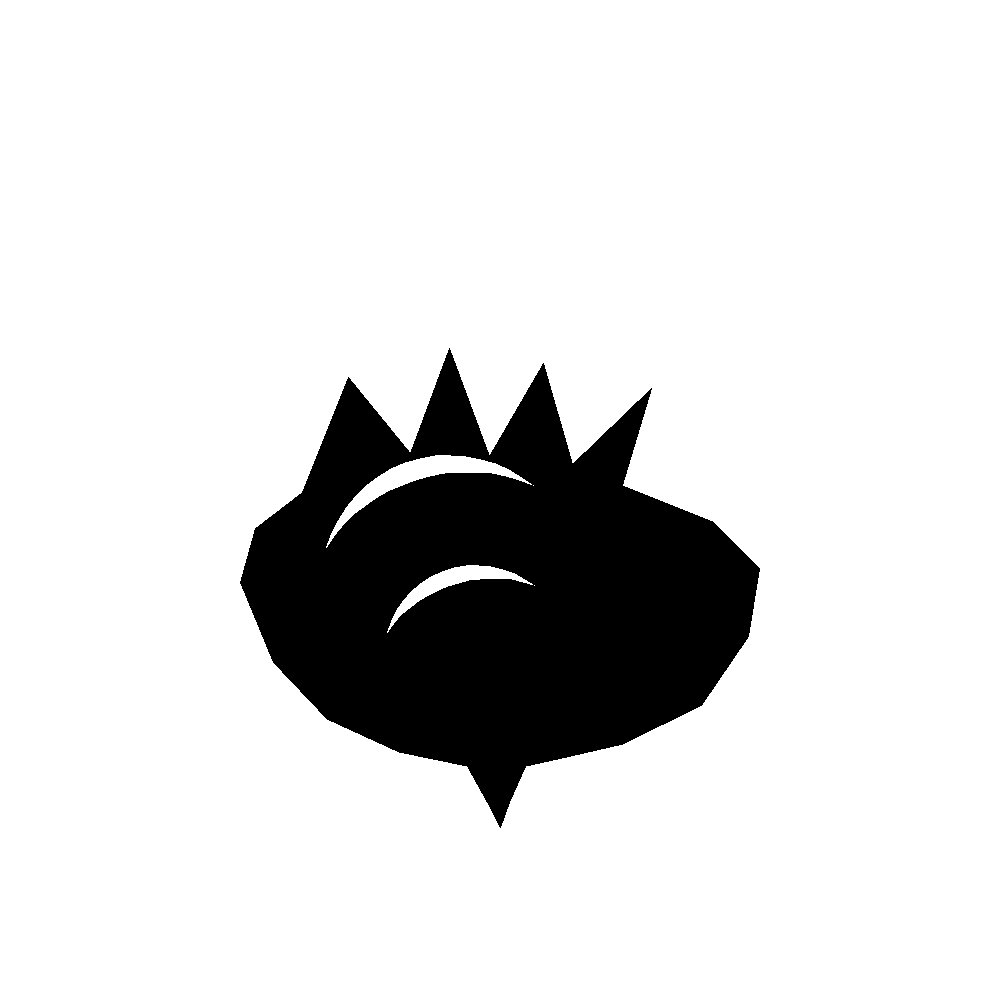
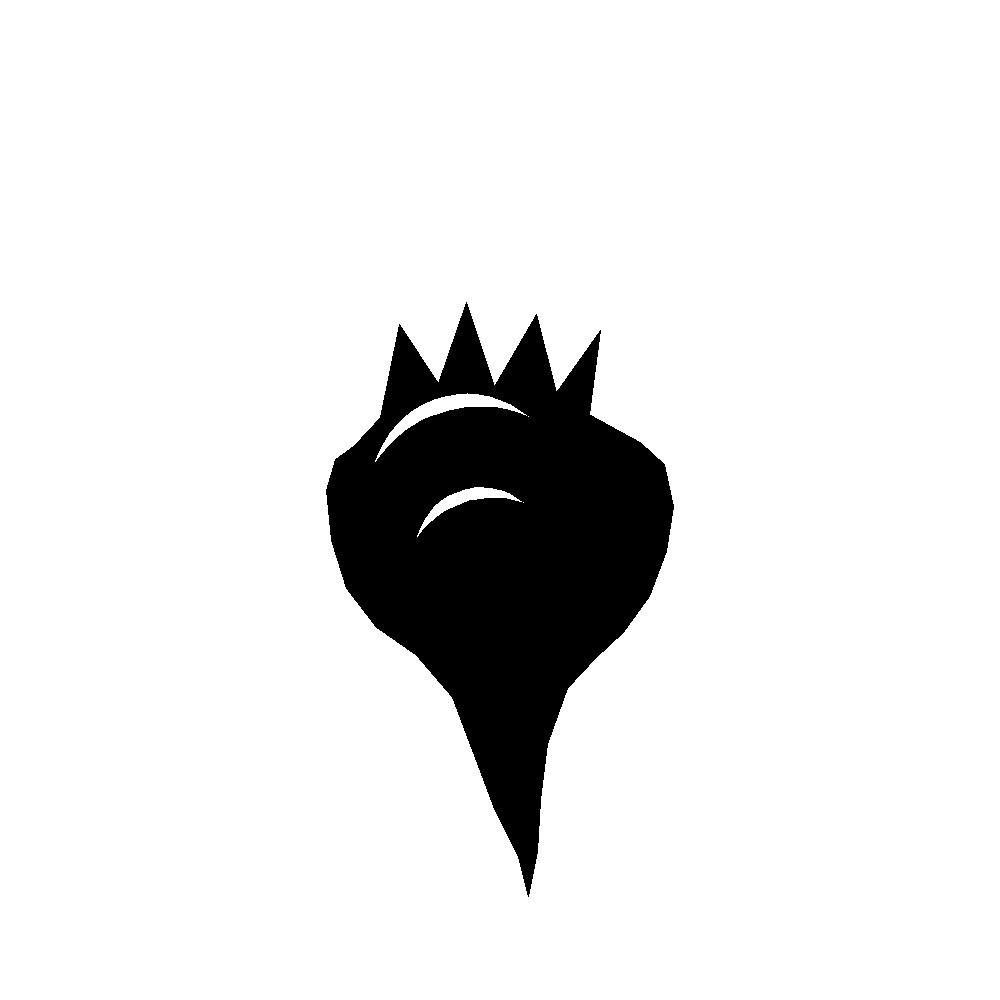
Turnip: rotund bulb, pointed curved tap-root, 1.34x taller than wide, small shrubby top (Codex PG7e, reviewed; 3-way merged onto the carved page 93c79e18); harness 46/46

Changed region(s): [[0.217, 0.31, 0.775, 0.899]]

diff --git a/Tools/ShadowGobo/Puppets/props.py b/Tools/ShadowGobo/Puppets/props.py
@@ -55,7 +55,10 @@ LOOK = {
              "page_font": None, "page_text_width": 0.85, "page_text_bold": 0.003,
              "page_text_angle_deg": -18.0, "page_text_diagonal_fill": 0.85,
              "page_text_seed": 1709, "page_wedge_down": 0.066, "page_wedge_thin": 0.038},
-    "turnip": {"attach": "boy_near_hand", "size_boy_height": 0.12, "bite_seconds": 0.24},
+    "turnip": {"attach": "boy_near_hand", "size_boy_height": 0.12, "bite_seconds": 0.24,
+               # Gary 9 Oct: rotund upper bulb, but longer than wide with a fine, curved tap-root.
+               "bulb_width": 1.24, "total_height_ratio": 1.34,
+               "tail_curve": 0.10, "leaf_height": 0.42},
     "pearl": {"attach_from": "puss_mouth", "attach_to": "boy_near_hand", "size_boy_height": 0.10},
     "crown": {"attach": "boy_head_top", "size_boy_height": 0.18, "restitution": 0.25},
     "boots": {"attach": "world", "size_vs_puss_height": 0.31, "restitution": 0.34, "spacing_widths": 1.22},
@@ -106,25 +109,35 @@ def _tapered_crescent(cx, cy, radius, width, start_deg=205, end_deg=305, n=22):
 
 
 def _turnip(bites=0):
+    look = LOOK["turnip"]
+    half_width = look["bulb_width"] * .5
+    bulb_top = .04
+    tail_y = bulb_top + look["bulb_width"] * look["total_height_ratio"]
+    curve = look["tail_curve"]
+    leaf = look["leaf_height"]
     leaves_and_left = [
-        (-.68, .08), (-.55, -.02), (-.42, -.34), (-.25, -.13),
-        (-.14, -.42), (-.03, -.12), (.12, -.38), (.20, -.10),
-        (.42, -.31), (.34, -.04), (.59, .06),
+        (-half_width * .84, .09), (-half_width * .69, -.01), (-.36, -leaf * .81), (-.22, -.13),
+        (-.12, -leaf), (-.02, -.12), (.13, -leaf * .90), (.20, -.10),
+        (.36, -leaf * .76), (.32, -.02), (half_width * .81, .08),
     ]
-    right_edge = [(0.72, .19), (0.69, .38), (0.56, .57), (0.34, .68)]
+    right_edge = [(half_width * .95, .16), (half_width, .31), (half_width * .96, .47),
+                  (half_width * .86, .63), (half_width * .71, .76), (half_width * .55, .85)]
     notches = [
-        ((.72, .16), (.55, .20), (.49, .27), (.58, .34), (.68, .37)),
-        ((.54, .31), (.34, .35), (.27, .44), (.39, .52), (.52, .56)),
-        ((.44, .52), (.21, .53), (.14, .62), (.25, .69), (.36, .70)),
+        ((half_width * .95, .16), (.49, .18), (.43, .24), (.48, .31), (half_width * .96, .35)),
+        ((half_width * .96, .35), (.45, .37), (.38, .44), (.43, .52), (half_width * .88, .57)),
+        ((half_width * .88, .57), (.40, .60), (.33, .67), (.38, .74), (half_width * .71, .78)),
     ]
     if bites:
-        right_edge = list(notches[0])
+        right_edge = list(notches[0]) + [(half_width * .86, .63), (half_width * .71, .76), (half_width * .55, .85)]
         if bites >= 2:
-            right_edge += list(notches[1][1:])
+            right_edge = list(notches[0]) + list(notches[1][1:]) + [(half_width * .71, .76), (half_width * .55, .85)]
         if bites >= 3:
-            right_edge += list(notches[2][1:])
-    lower = [(0.16, .72), (.07, .74), (.025, .84), (0, .91), (-.035, .84),
-             (-.09, .74), (-.28, .70), (-.48, .61), (-.63, .45), (-.72, .23)]
+            right_edge = list(notches[0]) + list(notches[1][1:]) + list(notches[2][1:]) + [(half_width * .55, .85)]
+    lower = [(.24, .96), (.15 + curve * .20, 1.16), (.10 + curve * .45, 1.36),
+             (.06 + curve * .75, tail_y - .16), (curve, tail_y),
+             (.01 + curve * .55, tail_y - .14), (-.05 + curve * .25, 1.38),
+             (-.10, 1.18), (-.17, .99), (-.30, .84), (-.44, .74),
+             (-.55, .60), (-half_width * .97, .43), (-half_width, .25), (-half_width * .95, .14)]
     return _poly(leaves_and_left + right_edge + lower)
 
 
@@ -143,8 +156,8 @@ def library():
                  _tapered_crescent(.53,.50,.105,.035,-60,120,18)),
                 (0,0), .28, "boy_near_hand", .035)
     turnip = Prop("turnip", _turnip(0),
-                  (_tapered_crescent(-.12,.30,.40,.055,205,302,18),
-                   _tapered_crescent(-.05,.49,.29,.045,205,300,16)),
+                  (_tapered_crescent(-.10,.31,.38,.052,205,302,18),
+                   _tapered_crescent(-.05,.53,.27,.043,205,300,16)),
                   (0,.18), .12, "boy_near_hand", .055)
     pearl = Prop("pearl", _circle(0,0,.50),
                  (_tapered_crescent(0, 0, .355, .105, 195, 292),),
@@ -573,14 +586,15 @@ def ensure_sdf_source_scale(frame_dir, atlas_px=ATLAS_PX, gutter_px=GUTTER_PX):
 def save_templates(root):
     root.mkdir(parents=True, exist_ok=True); lib=library(); thumbs=[]
     for name,prop in lib.items():
-        im=Image.new("L",(1000,1000),255); draw_prop(im,prop,(500,500),360,state=0)
+        template_centre,template_size=((500,420),280) if name=="turnip" else ((500,500),360)
+        im=Image.new("L",(1000,1000),255); draw_prop(im,prop,template_centre,template_size,state=0)
         if name=="page":
             draw_page_text(ImageDraw.Draw(im),(500,500),360)
             closeup=Image.new("L",(2000,2000),255);draw_prop(closeup,prop,(1000,1000),720,state=0)
             draw_page_text(ImageDraw.Draw(closeup),(1000,1000),720)
             closeup.save(root/"page_flat_closeup.png")
         im.save(root/(name+"_template.png")); thumbs.append((name,im.resize((280,280))))
-        def d(poly): return "M"+" L".join("%.2f,%.2f"%(x,y) for x,y in transform(poly,(500,500),360))+" Z"
+        def d(poly): return "M"+" L".join("%.2f,%.2f"%(x,y) for x,y in transform(poly,template_centre,template_size))+" Z"
         outline=_turnip(0) if name=="turnip" else prop.outline
         path=d(outline)+" "+" ".join(d(c) for c in prop.cuts)
         text_svg=""

diff --git a/Tools/ShadowGobo/Puppets/test_props_offline.py b/Tools/ShadowGobo/Puppets/test_props_offline.py
@@ -31,10 +31,14 @@ def run(report=None):
     add(rows,"positive","pearl_disc_stays_round",float(np.ptp(pearl_radii))<1e-9,{"radius_range":float(np.ptp(pearl_radii))})
     crescent=lib["pearl"].cuts[0]
     add(rows,"positive","pearl_crescent_is_smooth_and_tapered",len(crescent)>=40 and np.linalg.norm(np.asarray(crescent[0])-np.asarray(crescent[-1]))<1e-9,{"vertices":len(crescent)})
-    turnip=np.asarray(lib["turnip"].outline);bulb=turnip[(turnip[:,1]>=.02)&(turnip[:,1]<=.62)]
-    bulb_width=float(np.ptp(bulb[:,0]));bulb_height=float(np.ptp(bulb[:,1]))
-    add(rows,"positive","turnip_bulb_width_height_over_1_25",bulb_width/bulb_height>1.25,{"width":bulb_width,"height":bulb_height,"ratio":bulb_width/bulb_height})
-    add(rows,"positive","turnip_has_short_tail_and_small_spiky_leaves",float(turnip[:,1].max())<.95 and 3<=int(np.sum(turnip[:,1]<-.28))<=5,{"tail_y":float(turnip[:,1].max()),"leaf_tips":int(np.sum(turnip[:,1]<-.28))})
+    turnip=np.asarray(lib["turnip"].outline);bulb_top=.04;bulb_width=float(np.ptp(turnip[turnip[:,1]>=bulb_top,0]));total_height=float(turnip[:,1].max()-bulb_top);turnip_ratio=total_height/bulb_width
+    add(rows,"positive","turnip_height_width_ratio",1.25<=turnip_ratio<=1.45,{"bulb_width":bulb_width,"height_no_leaves":total_height,"ratio":turnip_ratio,"limits":[1.25,1.45]})
+    tail_start=bulb_top+.90*total_height;tail_width=float(np.ptp(turnip[turnip[:,1]>=tail_start,0]));tail_limit=.15*bulb_width
+    add(rows,"positive","turnip_tail_ends_in_fine_point",tail_width<tail_limit,{"last_ten_percent_width":tail_width,"limit":tail_limit,"bulb_width":bulb_width})
+    leaf_tips=int(np.sum(turnip[:,1]<-.28))
+    add(rows,"positive","turnip_keeps_small_spiky_leaves",3<=leaf_tips<=5,{"leaf_tips":leaf_tips,"leaf_height":props.LOOK["turnip"]["leaf_height"]})
+    legacy_ratio=(.91-.02)/(.72-(-.72))
+    add(rows,"negative","legacy_wide_turnip_fails_ratio_gate",not (1.25<=legacy_ratio<=1.45),{"legacy_ratio":legacy_ratio,"limits":[1.25,1.45]})
     boot=np.asarray(lib["boot"].outline)
     add(rows,"positive","boot_is_round_baby_bootie",float(boot[:,0].max())>.65 and float(boot[:,1].max())>.68 and len(lib["boot"].cuts)>=4,{"toe_x":float(boot[:,0].max()),"sole_y":float(boot[:,1].max()),"detail_cuts":len(lib["boot"].cuts)})
     page=Image.new("L",(600,600),255);props.draw_prop(page,lib["page"],(300,300),220);before=np.asarray(page).copy();props.draw_page_text(ImageDraw.Draw(page),(300,300),220)

diff --git a/Tools/ShadowGobo/Puppets/PG7_SHADOW_PROPS_REPORT.md b/Tools/ShadowGobo/Puppets/PG7_SHADOW_PROPS_REPORT.md
@@ -6,7 +6,7 @@
 |---|---:|---:|---:|---:|---:|
 | bucket | 100 | 49 | 7x7 | 7.37 px | 1.33 MB |
 | page | 100 | 70 | 9x8 | 2.25 px | 1.61 MB |
-| turnip | 100 | 7 | 3x3 | 9.53 px | 1.11 MB |
+| turnip | 100 | 7 | 3x3 | 9.53 px | 1.10 MB |
 | pearl | 100 | 58 | 8x8 | 2.41 px | 1.02 MB |
 | crown | 100 | 64 | 8x8 | 5.31 px | 0.91 MB |
 | boots | 100 | 68 | 9x8 | 3.32 px | 1.34 MB |
